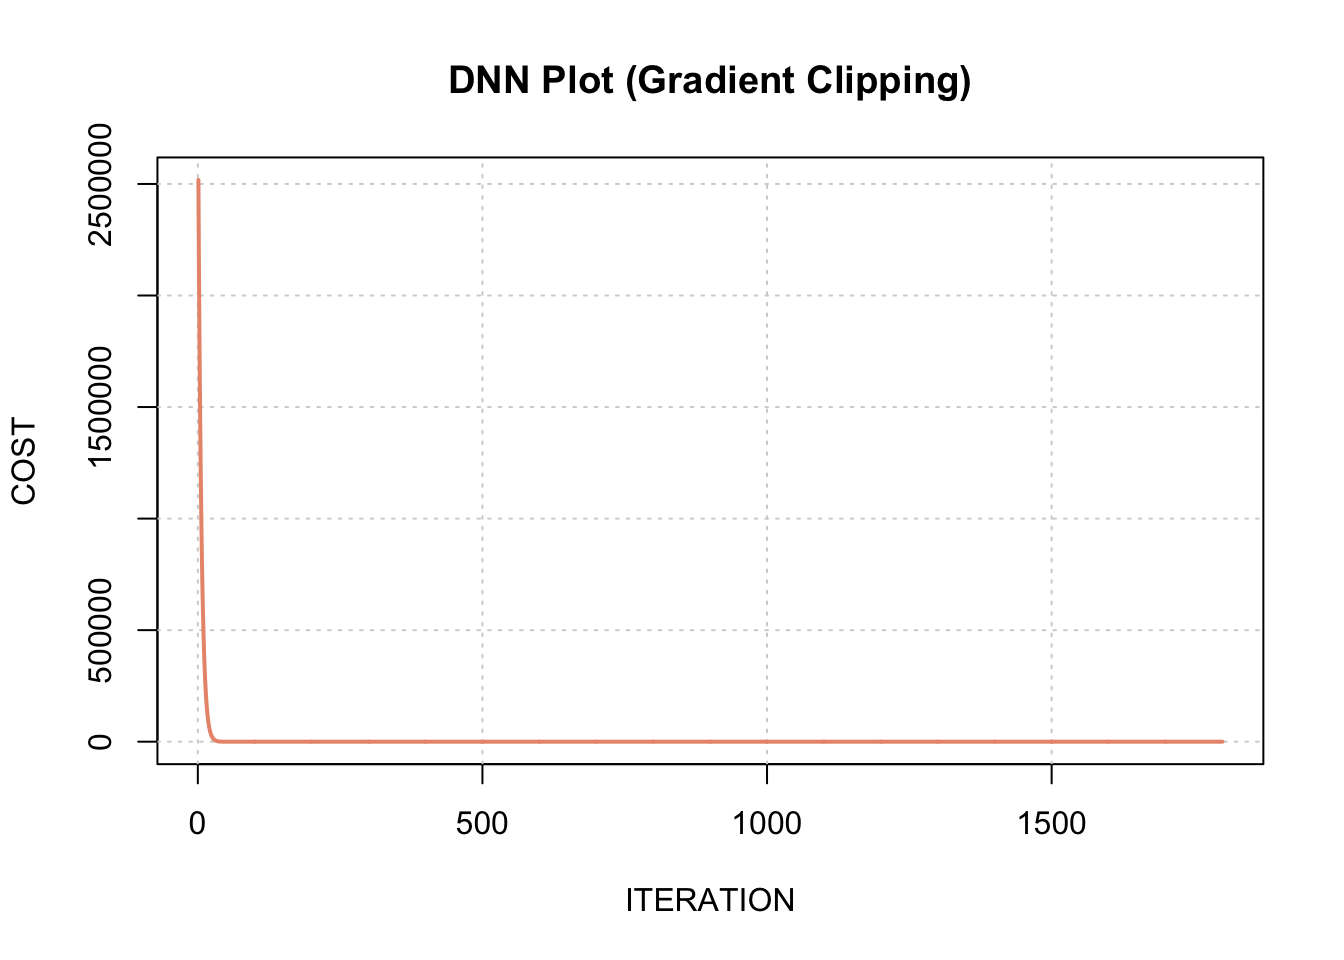
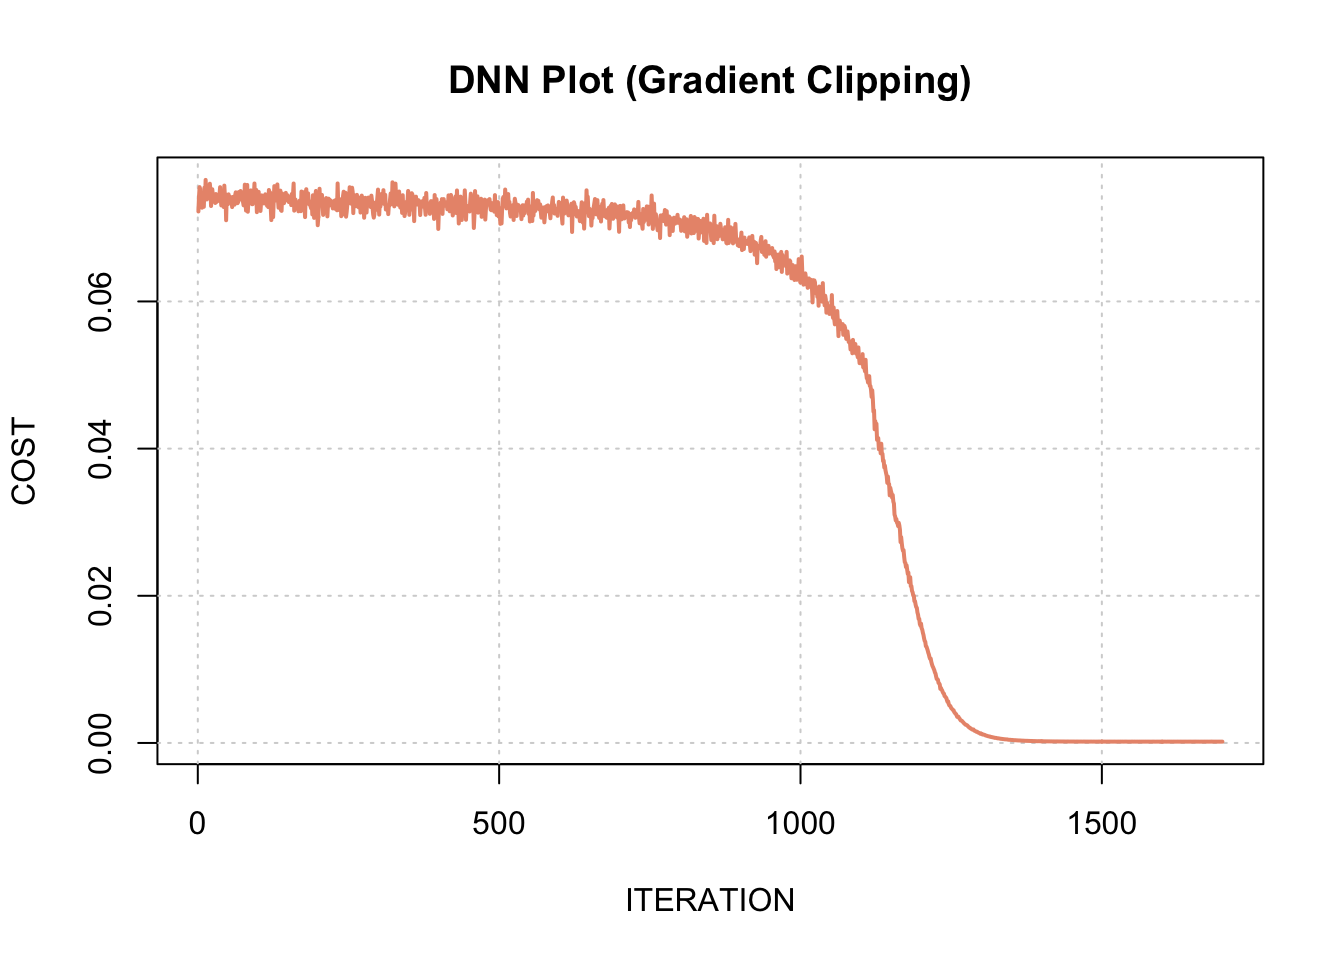
initialization

diff --git a/12.3-multi-layer-perceptron-mlp.html b/12.3-multi-layer-perceptron-mlp.html
@@ -2700,13 +2700,14 @@ Figure 12.15: MLP Plot
 
 <p>See a plot of the <strong>COST</strong> for the model in Figure <a href="12.3-multi-layer-perceptron-mlp.html#fig:mlpplotdc">12.16</a>.</p>
 
-<div class="sourceCode" id="cb1887"><pre class="sourceCode r"><code class="sourceCode r"><a class="sourceLine" id="cb1887-1" data-line-number="1">x =<span class="st"> </span><span class="kw">seq</span>(<span class="dv">1</span>, <span class="kw">length</span>(mlp.model.deep<span class="op">$</span>cost))</a>
-<a class="sourceLine" id="cb1887-2" data-line-number="2">y =<span class="st"> </span>mlp.model.deep<span class="op">$</span>cost</a>
-<a class="sourceLine" id="cb1887-3" data-line-number="3"><span class="kw">plot</span>(<span class="ot">NULL</span>, <span class="dt">xlim=</span><span class="kw">range</span>(x), <span class="dt">ylim=</span><span class="kw">range</span>(y),   <span class="dt">xlab=</span><span class="st">&quot;ITERATION&quot;</span>,  <span class="dt">ylab=</span><span class="st">&quot;COST&quot;</span>,   </a>
-<a class="sourceLine" id="cb1887-4" data-line-number="4">     <span class="dt">main=</span><span class="st">&quot;DNN Plot (Gradient Clipping)&quot;</span>,  <span class="dt">frame=</span><span class="ot">TRUE</span>)</a>
-<a class="sourceLine" id="cb1887-5" data-line-number="5"><span class="kw">grid</span>(<span class="dt">lty=</span><span class="dv">3</span>, <span class="dt">col=</span><span class="st">&quot;lightgrey&quot;</span>) </a>
-<a class="sourceLine" id="cb1887-6" data-line-number="6">color =<span class="st"> </span><span class="kw">c</span>(<span class="st">&quot;darksalmon&quot;</span>, <span class="st">&quot;brown&quot;</span>)</a>
-<a class="sourceLine" id="cb1887-7" data-line-number="7"><span class="kw">lines</span>(x, y, <span class="dt">col=</span>color[<span class="dv">1</span>], <span class="dt">lwd=</span><span class="dv">2</span>)</a></code></pre></div>
+<div class="sourceCode" id="cb107"><pre class="sourceCode r"><code class="sourceCode r"><a class="sourceLine" id="cb107-1" data-line-number="1">cost =<span class="st"> </span>mlp.model.deep<span class="op">$</span>cost[<span class="op">-</span><span class="dv">1</span><span class="op">:-</span><span class="dv">100</span>]  <span class="co"># exclude first iterations</span></a>
+<a class="sourceLine" id="cb107-2" data-line-number="2">x =<span class="st"> </span><span class="kw">seq</span>(<span class="dv">1</span>, <span class="kw">length</span>(cost))</a>
+<a class="sourceLine" id="cb107-3" data-line-number="3">y =<span class="st"> </span>cost</a>
+<a class="sourceLine" id="cb107-4" data-line-number="4"><span class="kw">plot</span>(<span class="ot">NULL</span>, <span class="dt">xlim=</span><span class="kw">range</span>(x), <span class="dt">ylim=</span><span class="kw">range</span>(y),   <span class="dt">xlab=</span><span class="st">&quot;ITERATION&quot;</span>,  <span class="dt">ylab=</span><span class="st">&quot;COST&quot;</span>,   </a>
+<a class="sourceLine" id="cb107-5" data-line-number="5">     <span class="dt">main=</span><span class="st">&quot;DNN Plot (Gradient Clipping)&quot;</span>,  <span class="dt">frame=</span><span class="ot">TRUE</span>)</a>
+<a class="sourceLine" id="cb107-6" data-line-number="6"><span class="kw">grid</span>(<span class="dt">lty=</span><span class="dv">3</span>, <span class="dt">col=</span><span class="st">&quot;lightgrey&quot;</span>) </a>
+<a class="sourceLine" id="cb107-7" data-line-number="7">color =<span class="st"> </span><span class="kw">c</span>(<span class="st">&quot;darksalmon&quot;</span>, <span class="st">&quot;brown&quot;</span>)</a>
+<a class="sourceLine" id="cb107-8" data-line-number="8"><span class="kw">lines</span>(x, y, <span class="dt">col=</span>color[<span class="dv">1</span>], <span class="dt">lwd=</span><span class="dv">2</span>)</a></code></pre></div>
 <div class="figure" style="text-align: center"><span style="display:block;" id="fig:mlpplotdc"></span>
 <img src="DS_files/figure-html/mlpplotdc-1.png" alt="DNN Plot (Gradient Clipping)" width="70%" />
 <p class="caption">
@@ -2731,6 +2732,7 @@ Figure 12.16: DNN Plot (Gradient Clipping)
 ## [10,] 0.42822478 0.62822478 0.56 0.50</code></pre>
 
 <p>The important note is that we can avoid the <strong>exploding gradient</strong> by clipping our <strong>gradients</strong>. At the same time, we should still be able to obtain higher performance by adjusting the learning rate, epoch limit, and tolerance level. Additionally, notice that our <strong>minimum and maximum thresholds</strong> are hand-selected for our clips. The chosen values are heuristically obtained. However, other literature may provide better ways to derive such thresholds automatically. We leave readers to investigate such techniques.</p>
+<p>Notice in our code for the graph that we removed the first few iterations as they render a very large cost. That is because we did not anticipate a close estimate of our initial weights. In the next section, we cover parameter initialization that helps us perform better initialization estimates.</p>
 </div>
 <div id="parameter-initialization" class="section level3 hasAnchor">
 <h3><span class="header-section-number">12.3.11</span> Parameter Initialization <a href="12.3-multi-layer-perceptron-mlp.html#parameter-initialization" class="anchor-section" aria-label="Anchor link to header"></a></h3>
